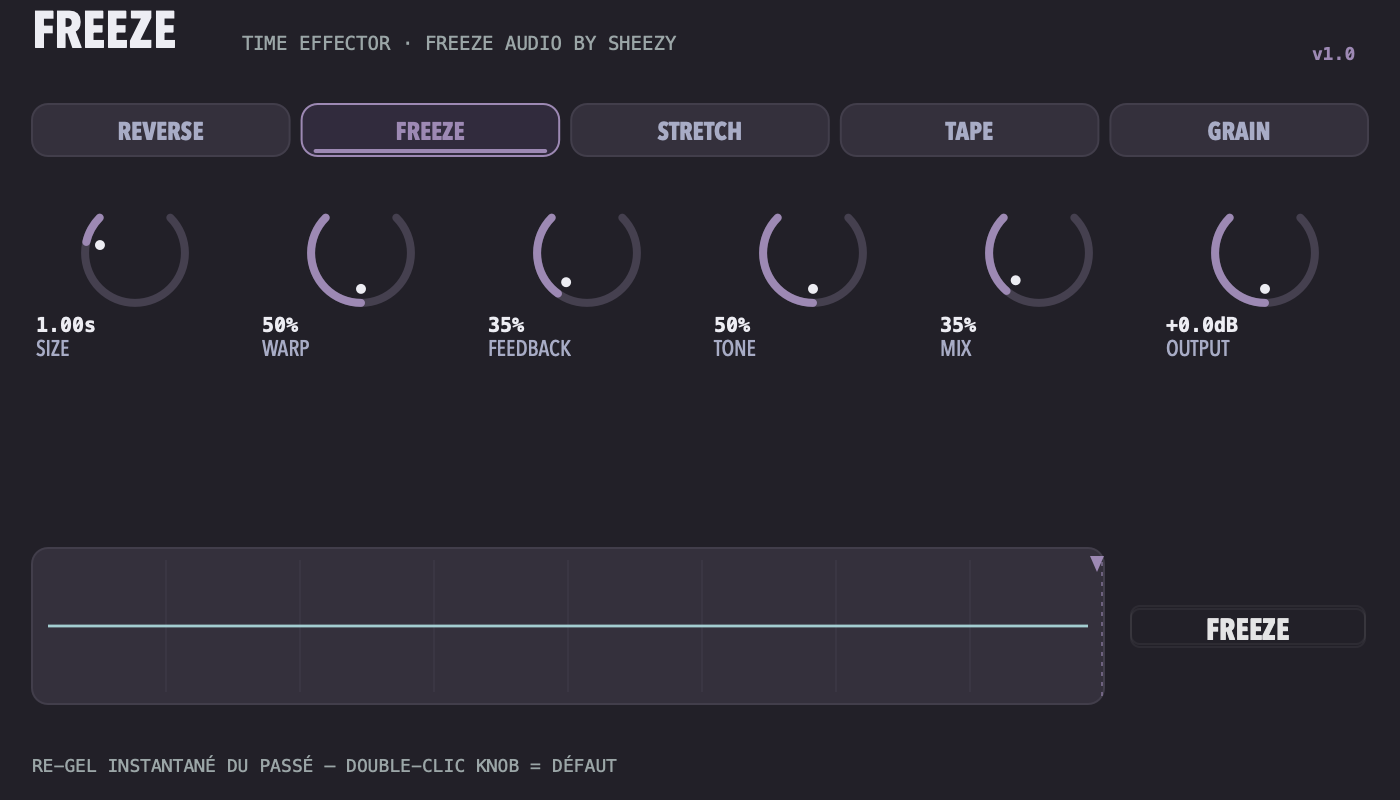
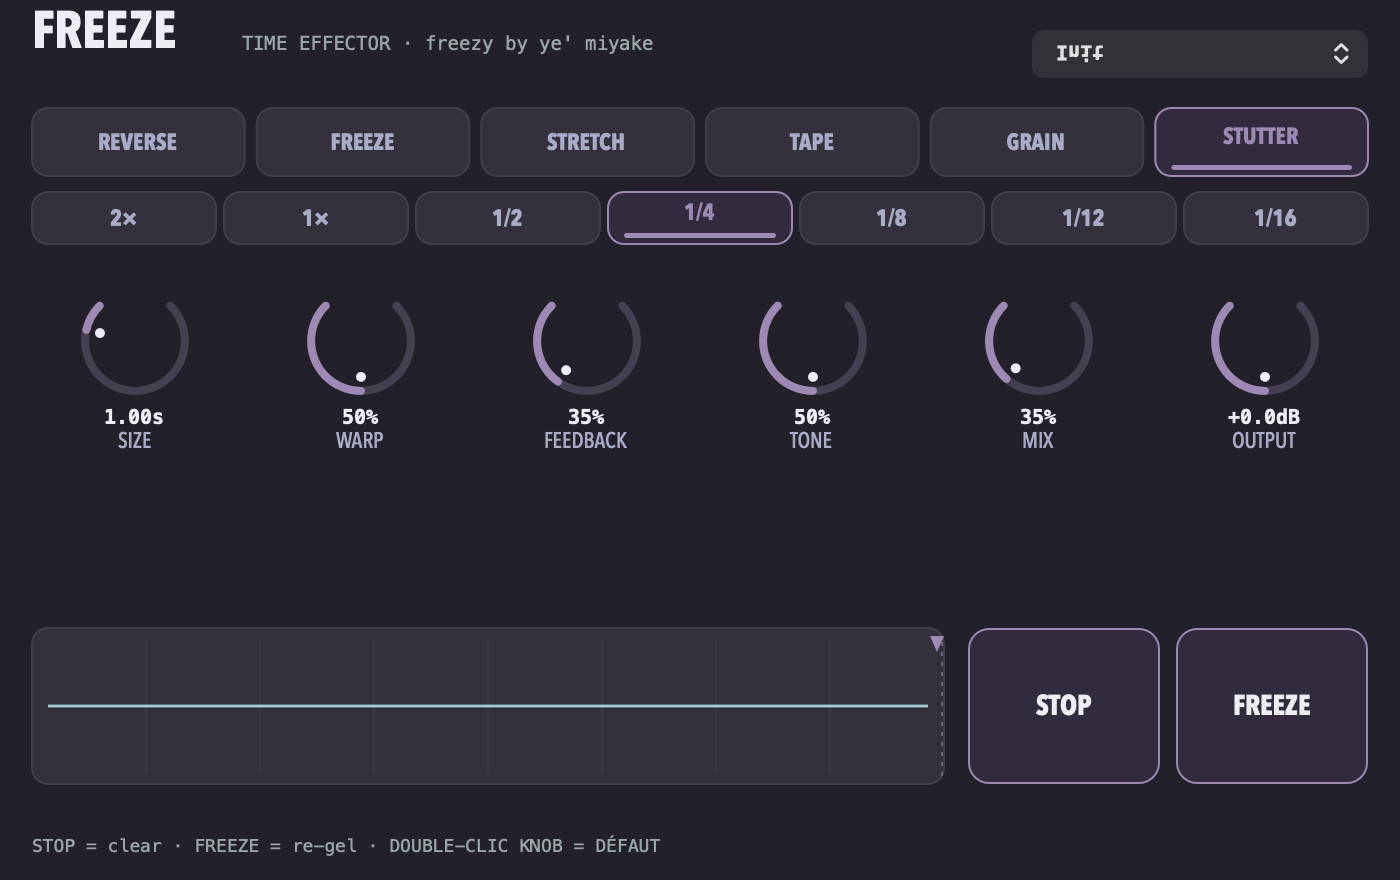
Update the landing page for stutter, time divisions, and the current interface.
The page still described five engines and an older screenshot, so the copy, presets, and photos now match the plugin.

diff --git a/src/i18n/ui.ts b/src/i18n/ui.ts
@@ -10,15 +10,15 @@ export const defaultLang: Lang = 'en';
 export const ui = {
   en: {
     'meta.title':
-      'Freeze Audio by sheezy — Audio Unit reverse, freeze & granular effect for Mac',
+      "freezy by ye' miyake — Audio Unit reverse, stutter and time effect for Mac",
     'meta.description':
-      'Freeze replays the last seconds of your track in reverse, frozen, stretched, tape-stopped or as a granular cloud. Audio Unit for macOS 12+, Apple Silicon and Intel.',
-    'meta.ogAlt': 'Freeze Audio by sheezy — plugin interface and tagline',
+      'Freeze replays the last seconds of your track in reverse, frozen, stretched, tape-stopped, as a granular cloud or as a stutter, at 2× down to 1/16. Audio Unit for macOS 12+, Apple Silicon and Intel.',
+    'meta.ogAlt': "freezy by ye' miyake — plugin interface and tagline",
     'meta.skip': 'Skip to content',
     'meta.jsonLdSubCategory': 'Audio effect plugin',
     'meta.processor': 'Apple Silicon (arm64) or Intel (x86_64)',
 
-    'nav.home': 'Freeze Audio by sheezy — home',
+    'nav.home': "freezy by ye' miyake — home",
     'nav.download': 'Download',
     'nav.sections': 'Sections',
     'nav.engines': 'Engines',
@@ -31,7 +31,7 @@ export const ui = {
     'hero.title.accent': 'past',
     'hero.title.after': ' of your sound.',
     'hero.lead':
-      'Freeze keeps the last seconds of your track in memory and plays them back in reverse, frozen, slowed down, as a tape stop, or as a granular cloud.',
+      'Freeze keeps the last seconds of your track in memory and plays them back in reverse, frozen, slowed down, as a tape stop, as a granular cloud, or as a stutter. Each engine can run at 2×, 1×, 1/2, 1/4, 1/8, 1/12 or 1/16.',
     'hero.ctaDownload': 'Download Freeze {version}',
     'hero.ctaGuide': 'Install guide',
     'hero.requirements': 'Requirements',
@@ -43,48 +43,57 @@ export const ui = {
 
     'engines.eyebrow': 'How does it work ?',
     'engines.title.before': 'One buffer, ',
-    'engines.title.accent': 'five ways',
+    'engines.title.accent': 'six ways',
     'engines.title.after': ' to read it back.',
     'engines.lead':
-      'Freeze continuously records your signal. Each engine reads that past sound differently, and the FREEZE button re-captures the current fragment instantly.',
+      'Freeze continuously records your signal. Each engine reads that past sound differently. The time row sets the rate, and the FREEZE button re-captures the current fragment instantly.',
     'engines.reverse.body':
       'The recent past played backwards, looping continuously over the Size window.',
-    'engines.reverse.warp': 'Warp sets reverse speed (0.25× to 2.75×).',
+    'engines.reverse.warp': 'Warp sets reverse speed. Rate scales it from 2× down to 1/16.',
     'engines.freeze.body':
       'A captured fragment looped forever.',
-    'engines.freeze.warp': 'Warp sets sweep speed (0.25× to 1.5×).',
+    'engines.freeze.warp': 'Warp sets sweep speed. Rate scales the loop.',
     'engines.stretch.body':
       'The past crawls by in slow motion, stretched across your track.',
-    'engines.stretch.warp': 'Warp sets the slowdown (0.05× to 0.95×).',
+    'engines.stretch.warp': 'Warp sets the slowdown. Rate stretches it further.',
     'engines.tape.body':
       'Tape stop: playback decelerates, reverses, then accelerates again, cycle after cycle.',
-    'engines.tape.warp': 'Warp and Size set the cycle length.',
+    'engines.tape.warp': 'Warp and Size set the cycle. Rate shortens or lengthens it.',
     'engines.grain.body':
-      'Up to 8 windowed grains read backwards and scattered across the window.',
+      'Up to 6 windowed grains read backwards and scattered across the window.',
     'engines.grain.warp':
-      'Warp sets density (2 to 28 grains/s) and grain length.',
+      'Warp sets density and grain length. Rate scales how often grains appear.',
+    'engines.stutter.body':
+      'A short slice is captured and fired back in a burst, then a new slice is caught.',
+    'engines.stutter.warp':
+      'Warp sets the repeats (2 to 8) and how tightly each hit is gated. Rate divides the slice: 1/2 and 1/4 make a longer chop, 2× a tighter one.',
 
     'showcase.eyebrow': 'What does it look like ?',
     'showcase.title.before': 'Everything in ',
     'showcase.title.accent': 'a single frame.',
     'showcase.alt':
-      'Freeze plugin interface: mode strip with Reverse, Freeze (selected), Stretch, Tape and Grain; six knobs for Size, Warp, Feedback, Tone, Mix and Output; waveform scope and FREEZE button.',
+      "freezy by ye' miyake interface: mode strip with Reverse, Freeze, Stretch, Tape, Grain and Stutter (selected); time row at 1/4; six knobs; waveform scope with STOP and FREEZE.",
     'showcase.caption':
-      'Interface capture, Freeze mode selected (no input signal).',
+      'Interface capture, Stutter selected at 1/4 (no input signal).',
     'showcase.modes.title': 'Mode strip',
     'showcase.modes.body':
-      'All five engines just one click away, with the active mode highlighted.',
+      'All six engines one click away, with the active mode highlighted.',
+    'showcase.time.title': 'Time row',
+    'showcase.time.body':
+      '2×, 1×, 1/2, 1/4, 1/8, 1/12 and 1/16. The same rate drives every engine, including the stutter slice.',
     'showcase.knobs.title': 'Six knobs',
     'showcase.knobs.body':
       'Size, Warp, Feedback, Tone, Mix and Output. Double-click resets to the default value.',
     'showcase.scope.title': 'Live scope',
     'showcase.scope.body':
-      'The processed waveform is visible in real time, with the FREEZE button to re-capture the past.',
+      'The processed waveform in real time. STOP clears the sound without moving the knobs. FREEZE re-captures the past.',
 
     'controls.eyebrow': 'Parameters',
     'controls.title.before': 'Few controls, ',
     'controls.title.accent': 'but all useful.',
     'controls.size.body': 'Length of the past window the engine reads.',
+    'controls.rate.body':
+      'Playback rate shared by every engine: 2×, 1×, 1/2, 1/4, 1/8, 1/12 or 1/16.',
     'controls.warp.body': 'Speed modulation, unique to each engine.',
     'controls.feedback.body': 'Feeds the processed signal back into the buffer.',
     'controls.tone.body':
@@ -95,18 +104,20 @@ export const ui = {
     'controls.bypass.body': 'Bypasses the effect, automatable from the host.',
     'controls.freeze.body': 'Re-captures the current fragment instantly.',
     'controls.range.size': '0.05 – 8 s',
+    'controls.range.rate': '2× – 1/16',
     'controls.range.percent': '0 – 100 %',
     'controls.range.feedback': '0 – 95 %',
     'controls.range.tone': 'LP ← center → HP',
     'controls.range.gain': '± 24 dB',
     'controls.range.bool': 'on / off',
     'controls.range.button': 'button',
-    'controls.presets.title': '6 presets',
+    'controls.presets.title': '15 presets',
     'controls.presets.intro':
-      'A starting point for each engine, exposed to the host as Audio Unit factory presets.',
+      'A starting point for each engine, including three stutter settings, exposed to the host as Audio Unit factory presets.',
     'controls.presets.col.preset': 'Preset',
     'controls.presets.col.engine': 'Engine',
     'controls.presets.col.size': 'Size',
+    'controls.presets.col.rate': 'Rate',
     'controls.presets.col.mix': 'Mix',
     'controls.presets.size.1': '1.0 s',
     'controls.presets.size.2': '2.0 s',
@@ -143,7 +154,7 @@ export const ui = {
     'install.step2.body.after': ' then drop Freeze.component into it.',
     'install.step3.title': 'Relaunch your host',
     'install.step3.body':
-      'Restart your audio software or rescan its Audio Unit plugins. Freeze shows up as “Freeze Audio by sheezy”.',
+      "Restart your audio software or rescan its Audio Unit plugins. Freeze shows up as “freezy by ye' miyake”.",
 
     'compat.eyebrow': 'Compatibility',
     'compat.title.before': 'Built for ',
@@ -177,7 +188,7 @@ export const ui = {
       'Make sure Freeze.component is in ~/Library/Audio/Plug-Ins/Components, then relaunch the host or rescan plugins. In FL Studio, run a new scan from the plugin manager.',
     'faq.q4': 'Can parameters be automated?',
     'faq.a4':
-      'Yes. Mode, Size, Warp, Feedback, Tone, Mix, Input, Output, Bypass and Freeze are exposed to the host as Audio Unit parameters.',
+      'Yes. Mode, Rate, Size, Warp, Feedback, Tone, Mix, Input, Output, Bypass and Freeze are exposed to the host as Audio Unit parameters.',
     'faq.q5': 'How do I uninstall Freeze?',
     'faq.a5':
       'Delete Freeze.component from ~/Library/Audio/Plug-Ins/Components, then relaunch your host.',
@@ -191,15 +202,15 @@ export const ui = {
   },
   fr: {
     'meta.title':
-      'Freeze Audio by sheezy — effet Audio Unit reverse, freeze et granulaire pour Mac',
+      "freezy by ye' miyake — effet Audio Unit reverse, stutter et temps pour Mac",
     'meta.description':
-      'Freeze rejoue les dernières secondes de votre piste à l’envers, gelées, ralenties, en arrêt de bande ou en nuage granulaire. Audio Unit pour macOS 12+, Apple Silicon et Intel.',
-    'meta.ogAlt': 'Freeze Audio by sheezy — interface du plugin et slogan',
+      'Freeze rejoue les dernières secondes de votre piste à l’envers, gelées, ralenties, en arrêt de bande, en nuage granulaire ou en stutter, de 2× à 1/16. Audio Unit pour macOS 12+, Apple Silicon et Intel.',
+    'meta.ogAlt': "freezy by ye' miyake — interface du plugin et slogan",
     'meta.skip': 'Aller au contenu',
     'meta.jsonLdSubCategory': 'Plugin d’effet audio',
     'meta.processor': 'Apple Silicon (arm64) ou Intel (x86_64)',
 
-    'nav.home': 'Freeze Audio by sheezy — accueil',
+    'nav.home': "freezy by ye' miyake — accueil",
     'nav.download': 'Télécharger',
     'nav.sections': 'Sections',
     'nav.engines': 'Moteurs',
@@ -212,7 +223,7 @@ export const ui = {
     'hero.title.accent': 'passé',
     'hero.title.after': ' de votre son.',
     'hero.lead':
-      'Freeze garde en mémoire les dernières secondes de votre piste et les rejoue à l’envers, gelées, ralenties, en arrêt de bande ou en nuage granulaire.',
+      'Freeze garde en mémoire les dernières secondes de votre piste et les rejoue à l’envers, gelées, ralenties, en arrêt de bande, en nuage granulaire ou en stutter. Chaque moteur peut tourner en 2×, 1×, 1/2, 1/4, 1/8, 1/12 ou 1/16.',
     'hero.ctaDownload': 'Télécharger Freeze {version}',
     'hero.ctaGuide': 'Guide d’installation',
     'hero.requirements': 'Configuration requise',
@@ -224,49 +235,58 @@ export const ui = {
 
     'engines.eyebrow': 'Comment ça marche ?',
     'engines.title.before': 'Une mémoire tampon, ',
-    'engines.title.accent': 'cinq façons',
+    'engines.title.accent': 'six façons',
     'engines.title.after': ' de la relire.',
     'engines.lead':
-      'Freeze enregistre en continu votre signal. Chaque moteur relit ce passé autrement, et le bouton FREEZE re-gèle instantanément le fragment en cours.',
+      'Freeze enregistre en continu votre signal. Chaque moteur relit ce passé autrement. La rangée de temps fixe la vitesse, et le bouton FREEZE re-gèle instantanément le fragment en cours.',
     'engines.reverse.body':
       'Le passé proche lu à l’envers, en boucle continue sur la fenêtre Size.',
-    'engines.reverse.warp': 'Warp règle la vitesse de recul (0,25× à 2,75×).',
+    'engines.reverse.warp': 'Warp règle la vitesse de recul. Rate la décline de 2× jusqu’à 1/16.',
     'engines.freeze.body':
       'Un fragment capturé puis rejoué en ping-pong infini.',
-    'engines.freeze.warp': 'Warp règle la vitesse de balayage (0,25× à 1,5×).',
+    'engines.freeze.warp': 'Warp règle la vitesse de balayage. Rate étire la boucle.',
     'engines.stretch.body':
       'Le passé défile au ralenti, comme une version ralentie de votre piste.',
-    'engines.stretch.warp': 'Warp règle le ralenti (0,05× à 0,95×).',
+    'engines.stretch.warp': 'Warp règle le ralenti. Rate l’étire encore.',
     'engines.tape.body':
       'Arrêt de bande : la lecture décélère, s’inverse, puis ré-accélère, cycle après cycle.',
-    'engines.tape.warp': 'Warp et Size fixent la durée du cycle.',
+    'engines.tape.warp': 'Warp et Size fixent le cycle. Rate le raccourcit ou l’allonge.',
     'engines.grain.body':
-      'Jusqu’à 8 grains fenêtrés lus à l’envers, semés dans la fenêtre.',
+      'Jusqu’à 6 grains fenêtrés lus à l’envers, semés dans la fenêtre.',
     'engines.grain.warp':
-      'Warp règle la densité (2 à 28 grains/s) et la longueur des grains.',
+      'Warp règle la densité et la longueur des grains. Rate règle leur cadence.',
+    'engines.stutter.body':
+      'Un court fragment est capturé puis renvoyé en rafale, avant d’en attraper un nouveau.',
+    'engines.stutter.warp':
+      'Warp fixe le nombre de répétitions (2 à 8) et la fermeture du gate. Rate divise la tranche : 1/2 et 1/4 l’allongent, 2× la resserre.',
 
     'showcase.eyebrow': 'A quoi ça ressemble ?',
     'showcase.title.before': 'Toutes les fonctionnalités dans ',
     'showcase.title.accent': 'une seule fenêtre.',
     'showcase.alt':
-      'Interface du plugin Freeze : bandeau des modes Reverse, Freeze (sélectionné), Stretch, Tape et Grain ; six potentiomètres Size, Warp, Feedback, Tone, Mix et Output ; scope de forme d’onde et bouton FREEZE.',
+      "Interface freezy by ye' miyake : bandeau Reverse, Freeze, Stretch, Tape, Grain et Stutter (sélectionné) ; rangée de temps en 1/4 ; six potentiomètres ; scope avec STOP et FREEZE.",
     'showcase.caption':
-      'Capture de l’interface, mode Freeze sélectionné (sans signal en entrée).',
+      'Capture de l’interface, mode Stutter en 1/4 (sans signal en entrée).',
     'showcase.modes.title': 'Bandeau des modes',
     'showcase.modes.body':
-      'Les 5 moteurs à portée de clic, le mode actif est surligné.',
+      'Les 6 moteurs à portée de clic, le mode actif est surligné.',
+    'showcase.time.title': 'Rangée de temps',
+    'showcase.time.body':
+      '2×, 1×, 1/2, 1/4, 1/8, 1/12 et 1/16. La même vitesse pilote tous les moteurs, y compris la tranche du stutter.',
     'showcase.knobs.title': 'Six potentiomètres',
     'showcase.knobs.body':
       'Size, Warp, Feedback, Tone, Mix et Output. Double-clic : retour à la valeur par défaut.',
     'showcase.scope.title': 'Scope en direct',
     'showcase.scope.body':
-      'Visualisation de l\'onde du signal traité et du bouton FREEZE pour re-geler le passé.',
+      'Onde du signal traité en direct. STOP coupe le son sans bouger les knobs. FREEZE re-gèle le passé.',
 
     'controls.eyebrow': 'Paramètres',
     'controls.title.before': 'Peu de réglages, ',
     'controls.title.accent': 'mais tous utiles.',
     'controls.size.body':
       'Longueur de la fenêtre de passé relue par le moteur.',
+    'controls.rate.body':
+      'Vitesse de lecture commune à tous les moteurs : 2×, 1×, 1/2, 1/4, 1/8, 1/12 ou 1/16.',
     'controls.warp.body': 'Modulation de vitesse, propre à chaque moteur.',
     'controls.feedback.body':
       'Réinjecte le signal traité dans la mémoire tampon.',
@@ -280,18 +300,20 @@ export const ui = {
     'controls.freeze.body':
       'Re-gèle instantanément le fragment en cours.',
     'controls.range.size': '0,05 – 8 s',
+    'controls.range.rate': '2× – 1/16',
     'controls.range.percent': '0 – 100 %',
     'controls.range.feedback': '0 – 95 %',
     'controls.range.tone': 'LP ← centre → HP',
     'controls.range.gain': '± 24 dB',
     'controls.range.bool': 'on / off',
     'controls.range.button': 'bouton',
-    'controls.presets.title': '6 presets',
+    'controls.presets.title': '15 presets',
     'controls.presets.intro':
-      'Un point de départ pour chaque moteur, exposés à l’hôte comme presets factory Audio Unit.',
+      'Un point de départ pour chaque moteur, dont trois réglages de stutter, exposés à l’hôte comme presets factory Audio Unit.',
     'controls.presets.col.preset': 'Preset',
     'controls.presets.col.engine': 'Moteur',
     'controls.presets.col.size': 'Size',
+    'controls.presets.col.rate': 'Rate',
     'controls.presets.col.mix': 'Mix',
     'controls.presets.size.1': '1,0 s',
     'controls.presets.size.2': '2,0 s',
@@ -329,7 +351,7 @@ export const ui = {
       ' puis glissez-y Freeze.component.',
     'install.step3.title': 'Relancez votre hôte',
     'install.step3.body':
-      'Redémarrez votre logiciel audio ou relancez son scan des plugins Audio Unit. Freeze apparaît sous « Freeze Audio by sheezy ».',
+      "Redémarrez votre logiciel audio ou relancez son scan des plugins Audio Unit. Freeze apparaît sous « freezy by ye' miyake ».",
 
     'compat.eyebrow': 'Compatibilité',
     'compat.title.before': 'Pensé pour ',
@@ -363,7 +385,7 @@ export const ui = {
       'Vérifiez que Freeze.component se trouve bien dans ~/Library/Audio/Plug-Ins/Components, puis relancez l’hôte ou son scan des plugins. Dans FL Studio, lancez un nouveau scan depuis le gestionnaire de plugins.',
     'faq.q4': 'Les paramètres sont-ils automatisables ?',
     'faq.a4':
-      'Oui. Mode, Size, Warp, Feedback, Tone, Mix, Input, Output, Bypass et Freeze sont exposés à l’hôte comme paramètres Audio Unit.',
+      'Oui. Mode, Rate, Size, Warp, Feedback, Tone, Mix, Input, Output, Bypass et Freeze sont exposés à l’hôte comme paramètres Audio Unit.',
     'faq.q5': 'Comment désinstaller Freeze ?',
     'faq.a5':
       'Supprimez Freeze.component du dossier ~/Library/Audio/Plug-Ins/Components puis relancez votre hôte.',

diff --git a/src/site.ts b/src/site.ts
@@ -4,8 +4,8 @@
 
 export const site = {
   url: 'https://example.com',
-  name: 'Freeze Audio by sheezy',
-  author: 'sheezy',
+  name: "freezy by ye' miyake",
+  author: "ye' miyake",
 } as const;
 
 export const release = {

diff --git a/BRIEF.md b/BRIEF.md
@@ -2,7 +2,7 @@
 
 ## Nom du plugin
 
-**Freeze Audio by sheezy** — « Time Effector ». Audio Unit v2 (`aufx`) pour macOS, version 1.0.0.
+**freezy by ye' miyake** — « Time Effector ». Audio Unit v2 (`aufx`) pour macOS, version 1.0.0.
 
 ## À quoi il sert
 
@@ -10,10 +10,11 @@ Freeze enregistre en continu le passé récent de votre piste dans une mémoire 
 
 ## Fonctionnalités principales
 
-- **5 moteurs de lecture** : Reverse, Freeze (boucle ping-pong gelée), Stretch (ralenti), Tape Reverse (tape-stop / inversion), Grain Reverse (nuage granulaire inversé).
-- **Bouton FREEZE** : re-gèle instantanément le fragment en cours.
-- **Contrôles de mise en forme** : Size (0,05 à 8 s), Warp, Feedback, Tone (filtre tilt passe-bas ↔ passe-haut), Mix, gain d'entrée et de sortie (±24 dB), Bypass.
-- **6 presets factory** : Init, Ghost Phrase, Infinite Pad, Slow Motion, Tape Stop Drama, Reverse Cloud.
+- **6 moteurs de lecture** : Reverse, Freeze (boucle ping-pong gelée), Stretch (ralenti), Tape Reverse (tape-stop / inversion), Grain Reverse (nuage granulaire inversé), Stutter (fragment court rejoué en rafale).
+- **Rangée de temps** : 2×, 1×, 1/2, 1/4, 1/8, 1/12, 1/16. La même vitesse pilote tous les moteurs.
+- **Bouton FREEZE** : re-gèle instantanément le fragment en cours. **STOP** coupe le son sans bouger les knobs.
+- **Contrôles de mise en forme** : Size (0,05 à 8 s), Rate, Warp, Feedback, Tone (filtre tilt passe-bas ↔ passe-haut), Mix, gain d'entrée et de sortie (±24 dB), Bypass.
+- **15 presets factory**, dont Soft Stutter, Half Repeat et Tight Chop.
 - **Interface sombre dédiée** : knobs, bandeau de modes et scope avec forme d'onde en direct.
 
 ## Public cible

diff --git a/README.md b/README.md
@@ -1,4 +1,4 @@
-# Freeze Audio by sheezy — download site
+# freezy by ye' miyake — download site
 
 Static landing page (Astro, zero client JS) for the Freeze Audio Unit plugin.
 
@@ -23,6 +23,6 @@ Node 22.12 or newer.
 
 - **Site URL**: `src/site.ts` → `site.url` (placeholder `https://example.com`). Feeds canonical, Open Graph, JSON-LD, sitemap and `robots.txt`.
 - **Archive**: `public/downloads/FreezeAudio-1.0.0-macOS.zip`. For a new version, change `release.version` and `release.downloadPath` in `src/site.ts`, then `npm run zip` (or `COMPONENT=/path/Freeze.component npm run zip`) and adjust `OUT` in `scripts/zip.sh`. Size and SHA-256 on the page are recalculated at build time.
-- **Plugin visual**: `src/assets/freeze-ui.png` (1400×800). To regenerate from the installed plugin: run `../freeze/build/test_ui`, then copy `/tmp/freeze_ui_freeze.png` here.
+- **Plugin visual**: `src/assets/freeze-ui.png` (1400×880). To regenerate from the installed plugin: run `../freeze/build/test_ui`, then copy `/tmp/freeze_ui_stutter.png` here.
 
 Design and tokens: see `DESIGN.md`.

diff --git a/DESIGN.md b/DESIGN.md
@@ -1,4 +1,4 @@
-# DESIGN — Freeze Audio by sheezy
+# DESIGN — freezy by ye' miyake
 
 ## Direction donnée (référence, telle que fournie)
 
@@ -41,7 +41,7 @@ La structure North (Marquee Hero, typo, espacements, rayons, air) est conservée
   - Grey Olive : réservé aux surfaces/traits neutres (non utilisé en texte).
   - Dusty Lavender : bordure des composants interactifs (bouton secondaire) ; base des neutres foncés dérivés.
 - **Section sombre** (interface + footer) : Dusty Lavender assombri (`--bg-dark`).
-- **Visuel du plugin** : capture réelle de l'UI rebuildée à la nouvelle palette (`src/assets/freeze-ui.png`, rendue par le harness `freeze/tools/dsp-test/test_ui.mm`), servie en WebP responsive via `astro:assets`.
+- **Visuel du plugin** : capture réelle de l'UI (`src/assets/freeze-ui.png`, Stutter sélectionné en 1/4, rendue par le harness `freeze/tools/dsp-test/test_ui.mm`), servie en WebP responsive via `astro:assets`. Le marquee défile les 6 modes, dont Stutter.
 
 ## Tokens dérivés et contrastes (WCAG 2.2)
 
